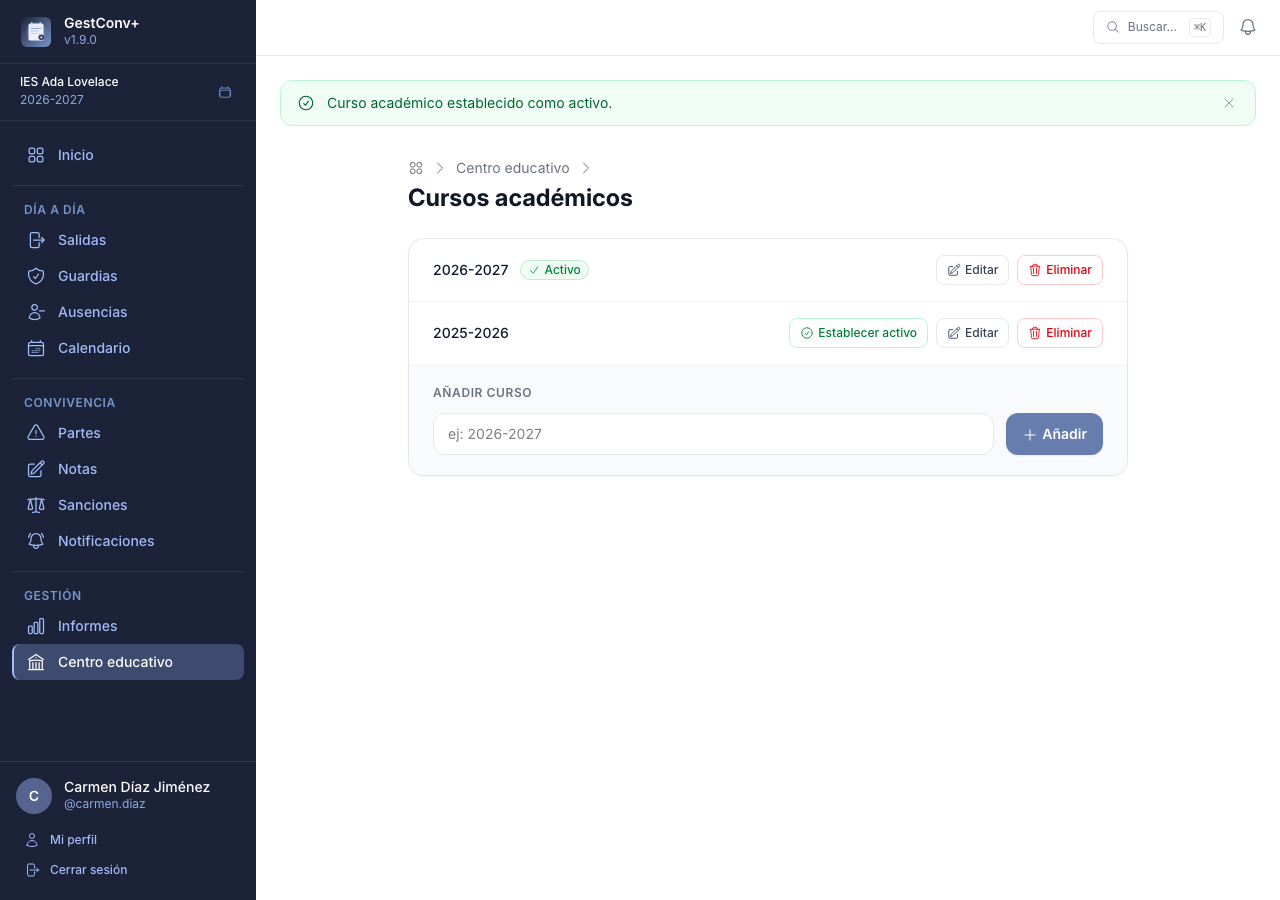
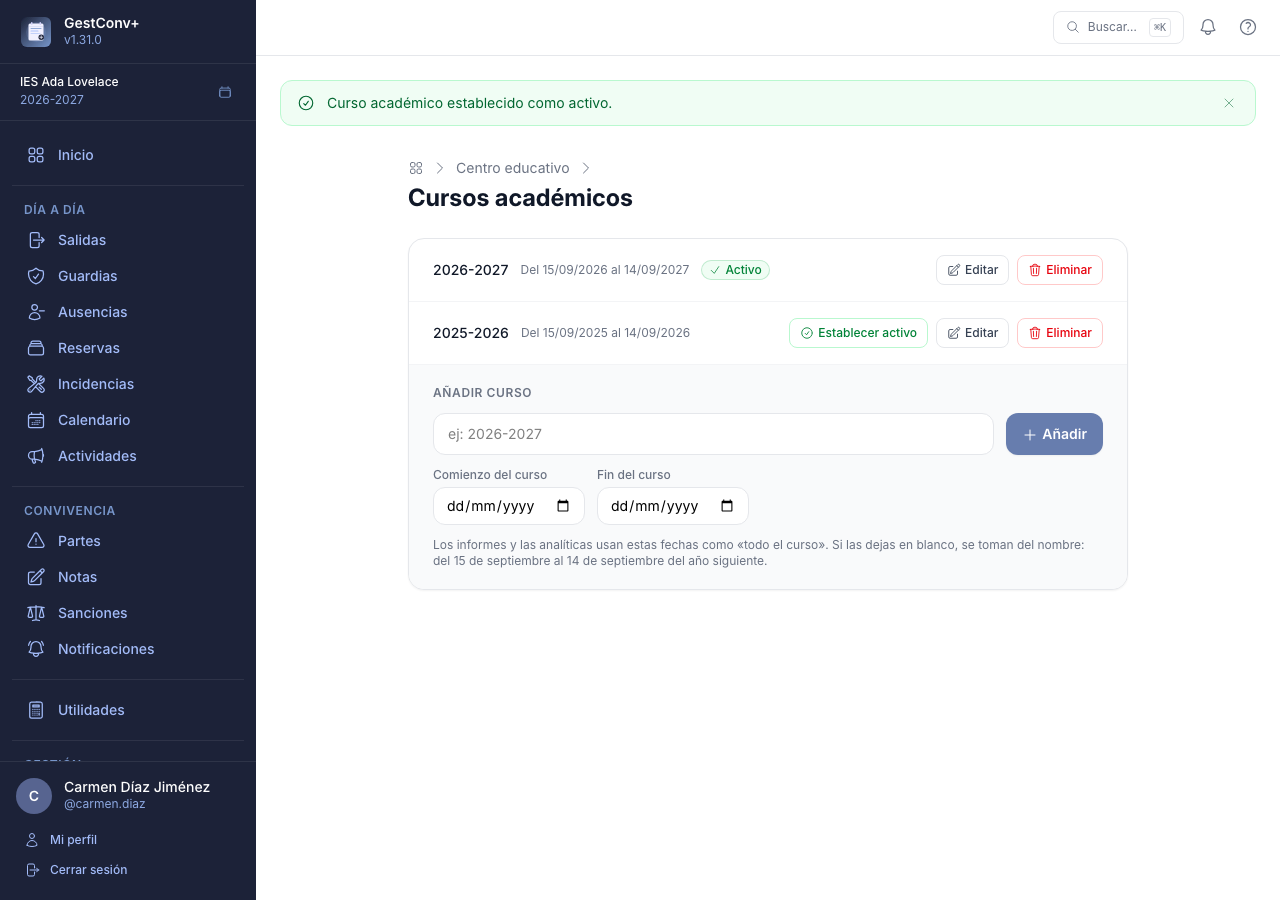
docs: ficha rápida y capítulo del curso nuevo con las fechas de comienzo y de fin del curso

diff --git a/docs/manual/02-preparar-el-curso-academico.md b/docs/manual/02-preparar-el-curso-academico.md
@@ -12,7 +12,9 @@ repite una vez al año, al abrir cada curso nuevo.
 ## 1. Crear y activar el curso académico
 
 Desde **Centro educativo › Cursos académicos**, crea el curso nuevo (por ejemplo, `2026-2027`) y
-márcalo como **activo**. Solo puede haber un curso activo por centro: es el curso de referencia
+márcalo como **activo**. Puedes indicar su fecha de comienzo y la de fin; si las dejas en blanco se
+toman del nombre (del 15/09/2026 al 14/09/2027) y los informes las usan como «Todo el curso» (ver
+[Cursos académicos](12-administrar-el-centro.md#cursos-academicos)). Solo puede haber un curso activo por centro: es el curso de referencia
 para las altas de estudiantes, la oferta formativa, los partes y las sanciones. Los cursos
 anteriores no se pierden: quedan disponibles para consulta como histórico (ver
 [Cambio de curso académico](03-usar-la-aplicacion.md#cambio-de-curso-academico-administradores)).

diff --git a/docs/cheatsheets/curso-nuevo.md b/docs/cheatsheets/curso-nuevo.md
@@ -76,7 +76,9 @@ footer: 'v{{VERSION}} ({{PUB_DATE}}) · GestConv+'
   <span class="num">1</span>
   <div class="text">
     <p>Desde <strong>Centro educativo › Cursos académicos</strong>, crea el curso nuevo (por
-    ejemplo, <strong>2026-2027</strong>) y márcalo como <strong>activo</strong>.</p>
+    ejemplo, <strong>2026-2027</strong>) y márcalo como <strong>activo</strong>. Puedes indicar su
+    <strong>fecha de comienzo y de fin</strong>; si las dejas en blanco, se toman del nombre (del
+    15/09/2026 al 14/09/2027) y los informes las usan como «Todo el curso».</p>
     <p>Solo puede haber un curso activo por centro: es el curso de referencia para las altas de
     estudiantes, la oferta formativa, los partes y las sanciones. Los cursos anteriores no se
     pierden — quedan disponibles como histórico.</p>
